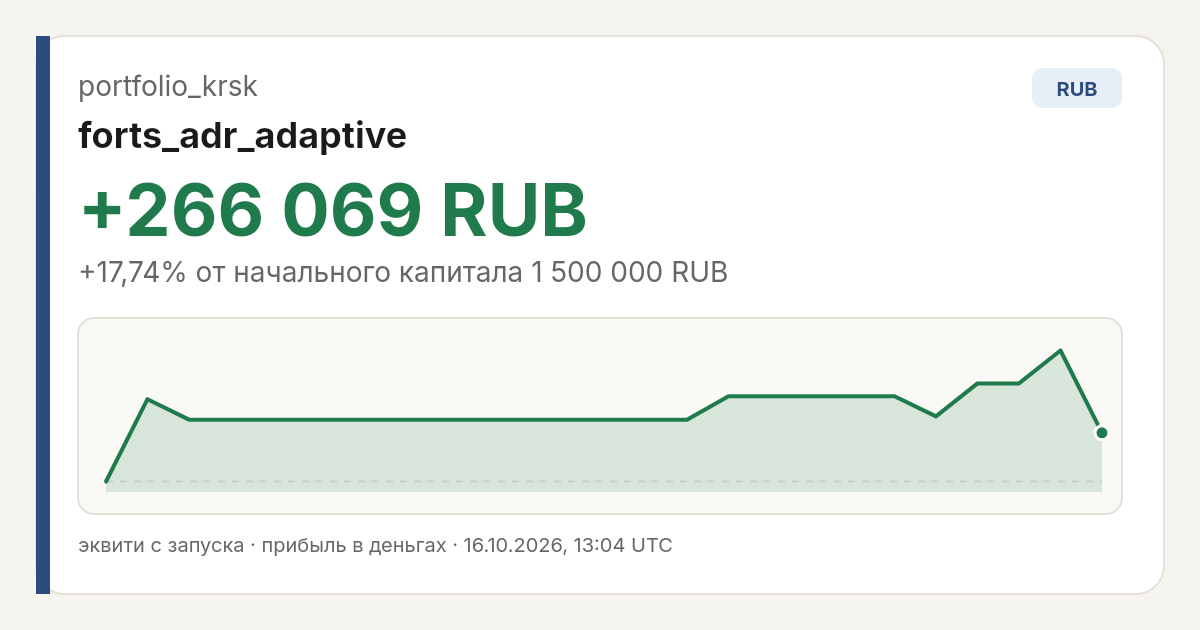
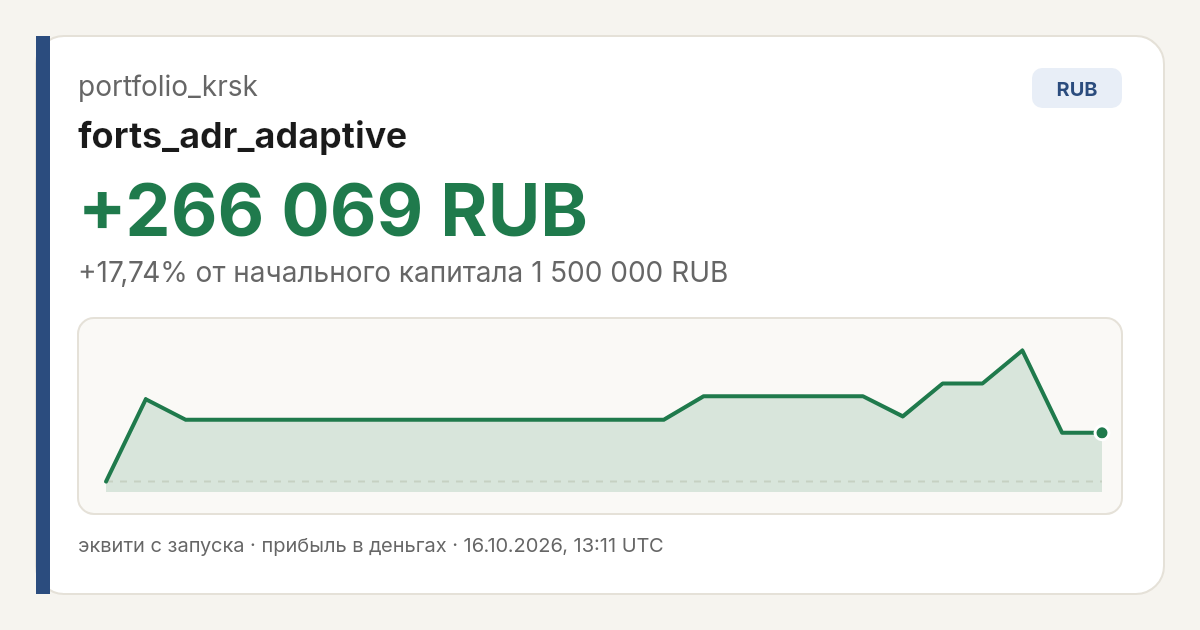
sync equity 2026-10-16T13:11Z

diff --git a/public/share.html b/public/share.html
@@ -11,16 +11,16 @@
     <meta property="og:site_name" content="portfolio_krsk" />
     <meta property="og:locale" content="ru_RU" />
     <meta property="og:type" content="website" />
-    <meta property="og:image" content="https://portfolio-krsk.vercel.app/og-cover.jpg?v=202610161304" />
-    <meta property="og:image:secure_url" content="https://portfolio-krsk.vercel.app/og-cover.jpg?v=202610161304" />
+    <meta property="og:image" content="https://portfolio-krsk.vercel.app/og-cover.jpg?v=202610161311" />
+    <meta property="og:image:secure_url" content="https://portfolio-krsk.vercel.app/og-cover.jpg?v=202610161311" />
     <meta property="og:image:type" content="image/jpeg" />
     <meta property="og:image:width" content="1200" />
     <meta property="og:image:height" content="630" />
-    <link rel="image_src" href="https://portfolio-krsk.vercel.app/og-cover.jpg?v=202610161304" />
+    <link rel="image_src" href="https://portfolio-krsk.vercel.app/og-cover.jpg?v=202610161311" />
     <meta name="twitter:card" content="summary_large_image" />
     <meta name="twitter:title" content="portfolio_krsk - forts_adr_adaptive" />
     <meta name="twitter:description" content="forts_adr_adaptive: +266 069 RUB (+17,74%) с запуска. Бумажный кабинет, валюты не складываются." />
-    <meta name="twitter:image" content="https://portfolio-krsk.vercel.app/og-cover.jpg?v=202610161304" />
+    <meta name="twitter:image" content="https://portfolio-krsk.vercel.app/og-cover.jpg?v=202610161311" />
     <meta http-equiv="refresh" content="0; url=/" />
     <script>location.replace("/")</script>
     <style>
@@ -49,7 +49,7 @@
   </head>
   <body>
     <main>
-      <img src="https://portfolio-krsk.vercel.app/og-cover.jpg?v=202610161304" alt="portfolio_krsk - forts_adr_adaptive" width="1200" height="630" />
+      <img src="https://portfolio-krsk.vercel.app/og-cover.jpg?v=202610161311" alt="portfolio_krsk - forts_adr_adaptive" width="1200" height="630" />
       <noscript>
         <p>forts_adr_adaptive: +266 069 RUB (+17,74%) с запуска. Бумажный кабинет, валюты не складываются.</p>
         <p><a href="/">Открыть кабинет portfolio_krsk</a></p>

diff --git a/index.html b/index.html
@@ -14,16 +14,16 @@
     <meta property="og:site_name" content="portfolio_krsk" />
     <meta property="og:locale" content="ru_RU" />
     <meta property="og:type" content="website" />
-    <meta property="og:image" content="https://portfolio-krsk.vercel.app/og-cover.jpg?v=202610161304" />
-    <meta property="og:image:secure_url" content="https://portfolio-krsk.vercel.app/og-cover.jpg?v=202610161304" />
+    <meta property="og:image" content="https://portfolio-krsk.vercel.app/og-cover.jpg?v=202610161311" />
+    <meta property="og:image:secure_url" content="https://portfolio-krsk.vercel.app/og-cover.jpg?v=202610161311" />
     <meta property="og:image:type" content="image/jpeg" />
     <meta property="og:image:width" content="1200" />
     <meta property="og:image:height" content="630" />
-    <link rel="image_src" href="https://portfolio-krsk.vercel.app/og-cover.jpg?v=202610161304" />
+    <link rel="image_src" href="https://portfolio-krsk.vercel.app/og-cover.jpg?v=202610161311" />
     <meta name="twitter:card" content="summary_large_image" />
     <meta name="twitter:title" content="portfolio_krsk - forts_adr_adaptive" />
     <meta name="twitter:description" content="forts_adr_adaptive: +266 069 RUB (+17,74%) с запуска. Бумажный кабинет, валюты не складываются." />
-    <meta name="twitter:image" content="https://portfolio-krsk.vercel.app/og-cover.jpg?v=202610161304" />
+    <meta name="twitter:image" content="https://portfolio-krsk.vercel.app/og-cover.jpg?v=202610161311" />
   </head>
   <body>
     <div id="root"></div>
